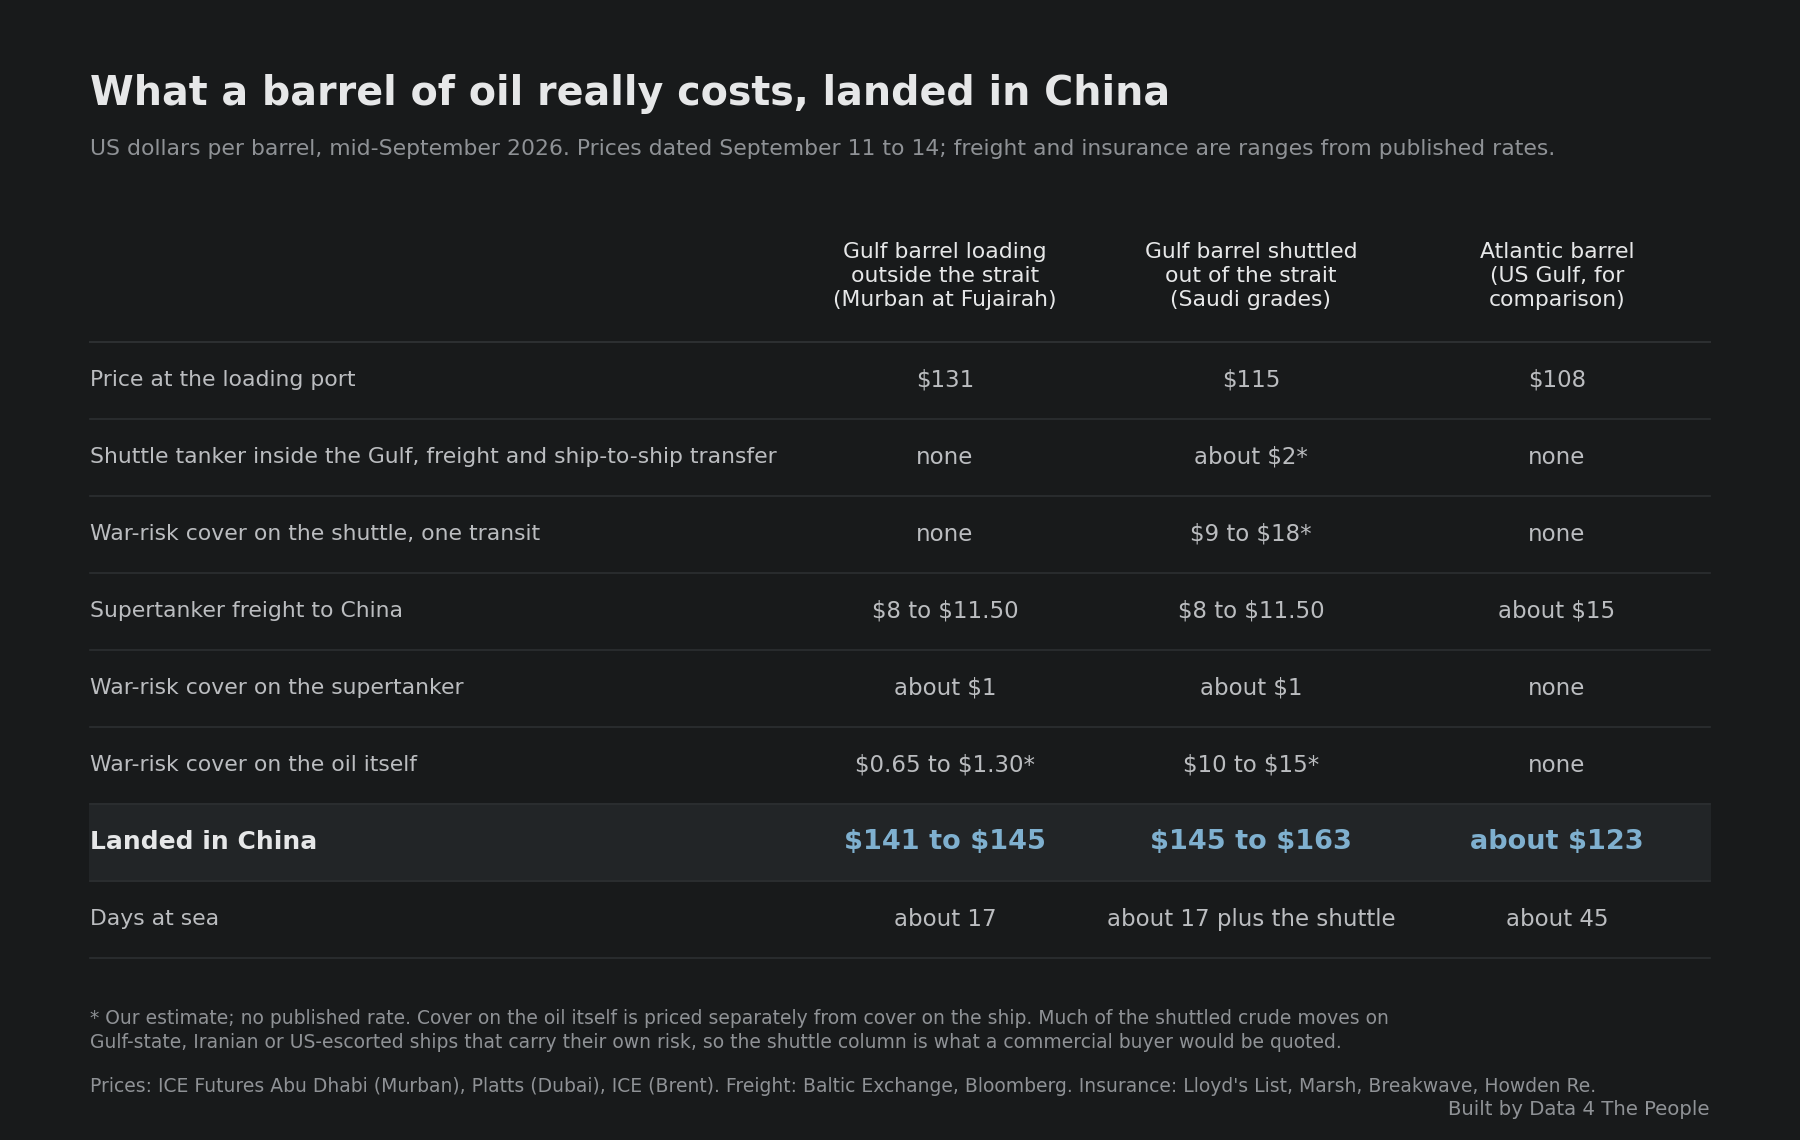
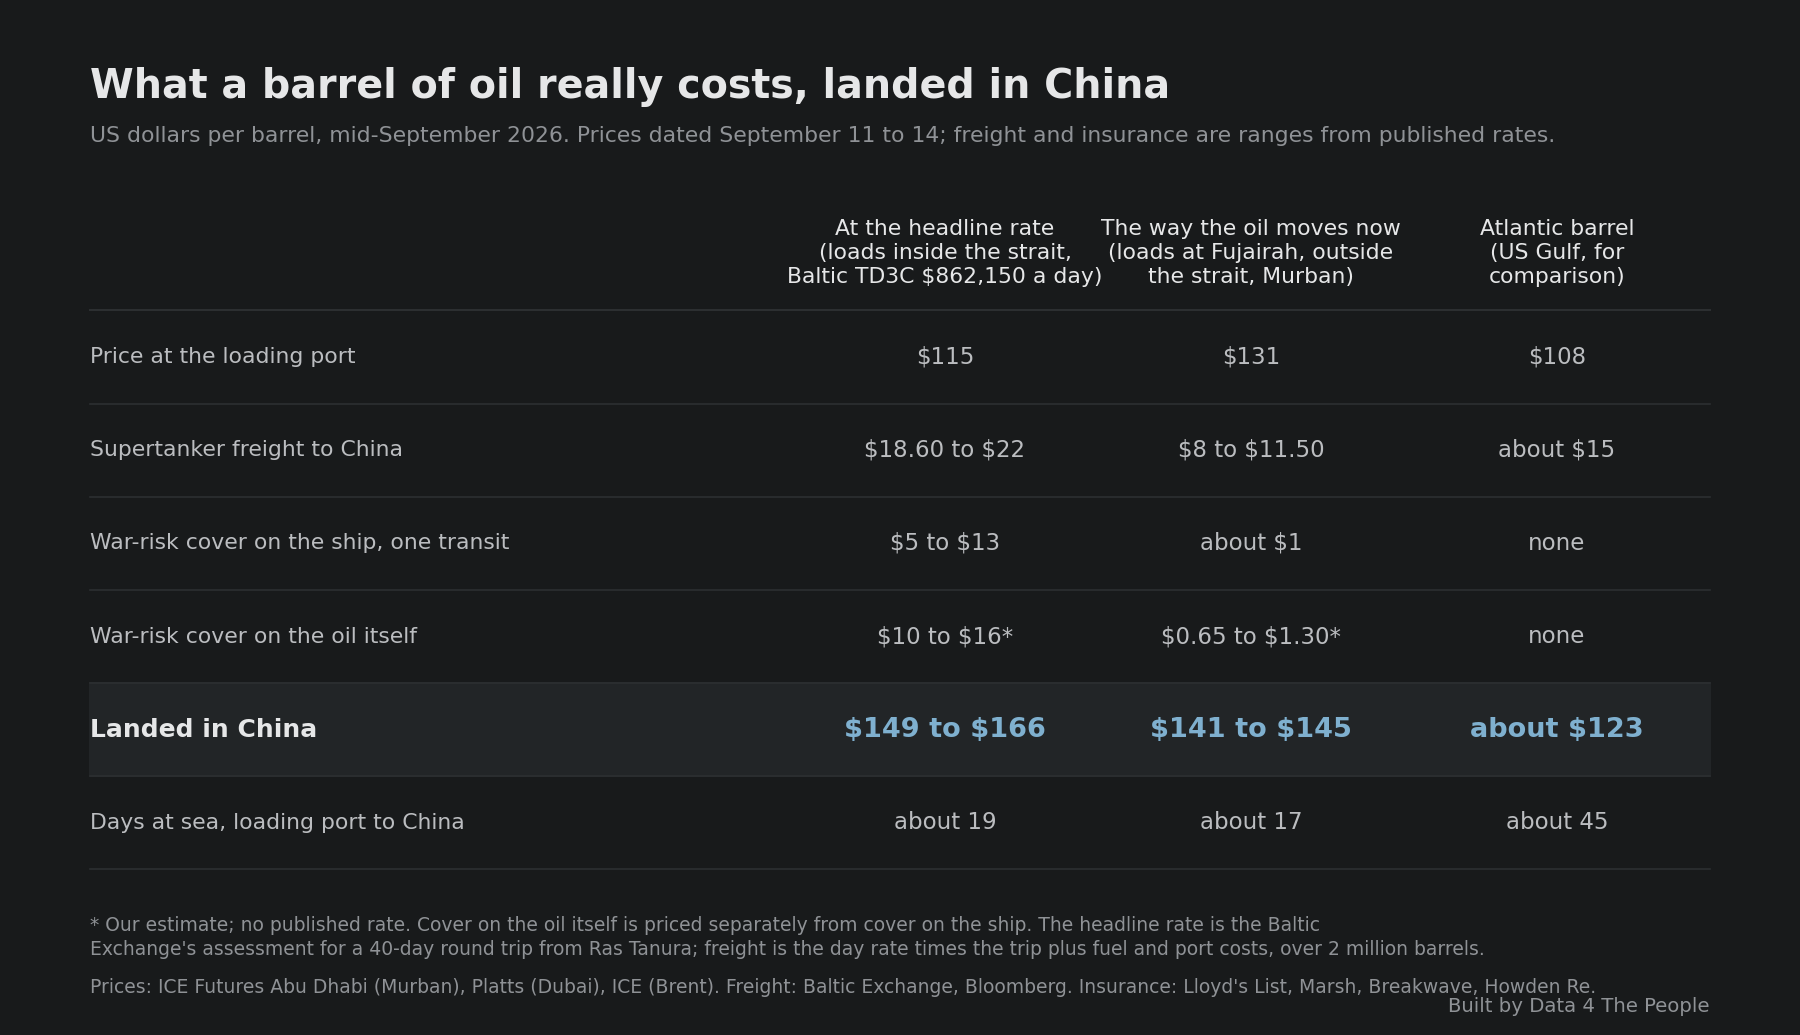
supertanker-rates: price the table off the headline TD3C rate
Claude-Session: https://claude.ai/code/session_01LBvAPhWemjubG9JqVWhAYE

diff --git a/scripts/landed_cost_table.py b/scripts/landed_cost_table.py
@@ -13,19 +13,17 @@ OUT = Path(__file__).resolve().parent.parent / "posts" / "supertanker-rates" / "
 BG, INK, MUTED, GRID, HEAD = "#181A1B", "#BBBDC0", "#8f9296", "#2c2f31", "#e6e7e8"
 ACCENT = "#7fb0cf"
 
-cols = ["", "Gulf barrel loading\noutside the strait\n(Murban at Fujairah)", "Gulf barrel shuttled\nout of the strait\n(Saudi grades)", "Atlantic barrel\n(US Gulf, for\ncomparison)"]
+cols = ["", "At the headline rate\n(loads inside the strait,\nBaltic TD3C $862,150 a day)", "The way the oil moves now\n(loads at Fujairah, outside\nthe strait, Murban)", "Atlantic barrel\n(US Gulf, for\ncomparison)"]
 rows = [
-    ("Price at the loading port", "$131", "$115", "$108"),
-    ("Shuttle tanker inside the Gulf, freight and ship-to-ship transfer", "none", "about $2*", "none"),
-    ("War-risk cover on the shuttle, one transit", "none", "$9 to $18*", "none"),
-    ("Supertanker freight to China", "$8 to $11.50", "$8 to $11.50", "about $15"),
-    ("War-risk cover on the supertanker", "about $1", "about $1", "none"),
-    ("War-risk cover on the oil itself", "$0.65 to $1.30*", "$10 to $15*", "none"),
-    ("Landed in China", "$141 to $145", "$145 to $163", "about $123"),
-    ("Days at sea", "about 17", "about 17 plus the shuttle", "about 45"),
+    ("Price at the loading port", "$115", "$131", "$108"),
+    ("Supertanker freight to China", "$18.60 to $22", "$8 to $11.50", "about $15"),
+    ("War-risk cover on the ship, one transit", "$5 to $13", "about $1", "none"),
+    ("War-risk cover on the oil itself", "$10 to $16*", "$0.65 to $1.30*", "none"),
+    ("Landed in China", "$149 to $166", "$141 to $145", "about $123"),
+    ("Days at sea, loading port to China", "about 19", "about 17", "about 45"),
 ]
 
-fig = plt.figure(figsize=(12, 7.6), dpi=150)
+fig = plt.figure(figsize=(12, 6.9), dpi=150)
 fig.patch.set_facecolor(BG)
 ax = fig.add_axes([0, 0, 1, 1]); ax.set_axis_off(); ax.set_xlim(0, 1); ax.set_ylim(0, 1)
 plt.rcParams["font.family"] = "sans-serif"
@@ -56,8 +54,8 @@ for r, (label, *vals) in enumerate(rows):
         fig.text(colx[i] + 0.075, y + row_h / 2, esc(v), fontsize=11 if not total else 13, color=ACCENT if total else INK,
                  fontweight="bold" if total else "normal", ha="center", va="center")
     ax.plot([x0, x1], [y, y], color=GRID, lw=0.8)
-fig.text(0.05, 0.115, "* Our estimate; no published rate. Cover on the oil itself is priced separately from cover on the ship. Much of the shuttled crude moves on\n"
-         "Gulf-state, Iranian or US-escorted ships that carry their own risk, so the shuttle column is what a commercial buyer would be quoted.",
+fig.text(0.05, 0.115, "* Our estimate; no published rate. Cover on the oil itself is priced separately from cover on the ship. The headline rate is the Baltic\n"
+         "Exchange's assessment for a 40-day round trip from Ras Tanura; freight is the day rate times the trip plus fuel and port costs, over 2 million barrels.",
          fontsize=9, color=MUTED, va="top", linespacing=1.35)
 fig.text(0.05, 0.055, "Prices: ICE Futures Abu Dhabi (Murban), Platts (Dubai), ICE (Brent). Freight: Baltic Exchange, Bloomberg. Insurance: Lloyd's List, Marsh, Breakwave, Howden Re.",
          fontsize=9, color=MUTED, va="top")

diff --git a/posts/supertanker-rates/POST.md b/posts/supertanker-rates/POST.md
@@ -44,16 +44,16 @@ Start with the barrel. The oil that can actually leave the Gulf right now loads 
 
 Now ship it. The Baltic Exchange rate for a supertanker from the Gulf of Oman to China worked out to about $11.50 a barrel on September 11, for a trip of about 17 days. (At the $862,150 headline rate, which is for a ship loading inside the strait on a 40-day round trip, fuel and port costs included, the same cargo would be $18 to $22 a barrel.) Add roughly $1 a barrel for war-risk insurance on the ship and about the same for insurance on the oil itself. That puts a Gulf barrel in a Chinese refinery at roughly $141 to $145.
 
-A barrel that starts inside the Gulf costs more. It first has to ride a smaller tanker out through the strait, and insuring that one leg can run $9 to $18 a barrel for the ship and as much again for the cargo, if anyone will write the policy. Our estimate is that a fully insured barrel shuttled out of the Gulf lands in China at $145 to $163. Much of that oil now moves on Gulf-state and Iranian ships, or under U.S. Navy escort, because commercial cover at those prices does not add up.
+A barrel that loads inside the Gulf, the trip the $862,150 rate is quoted for, costs more. At that rate the freight alone is $18.60 to $22 a barrel. War-risk cover for the transit adds $5 to $13 for the ship and, by our estimate, $10 to $16 for the cargo, if anyone will write the policy. That barrel lands in China at about $149 to $166. It is also why so little oil moves that way: most of what leaves the Gulf is carried to Fujairah on Gulf-state and Iranian ships, or under U.S. Navy escort, and loaded onto a supertanker there.
 
-So the honest answer to “what does oil cost” is that it depends on where you are standing. The screen says about $106. A refiner in China pays about $140 for the same barrel, and more if every step is insured at market rates. The $35 to $55 in between is the shipping story, and none of it shows up in the number on the screen.
+So the honest answer to “what does oil cost” is that it depends on where you are standing. The screen says about $106. A refiner in China pays about $140 for the same barrel, and up to $166 if it has to come out through the strait. The $35 to $60 in between is the shipping story, and none of it shows up in the number on the screen.
 
 Here is the whole bill in one place. The table shows what a barrel costs at the loading port, what it costs to ship and insure, and what it costs by the time it reaches a refinery in China.
 
-![Table titled What a barrel of oil really costs, landed in China, US dollars per barrel, mid-September 2026. Three columns: a Gulf barrel loading outside the strait at Fujairah, a Gulf barrel shuttled out of the strait, and an Atlantic barrel for comparison. Loading-port prices of $131, $115 and $108. Freight, shuttle and war-risk insurance lines are added. Landed in China: $141 to $145, $145 to $163, and about $123. Days at sea: about 17, about 17 plus the shuttle, and about 45.](images/02-landed-cost-table.png)
+![Table titled What a barrel of oil really costs, landed in China, US dollars per barrel, mid-September 2026. Three columns: a Gulf barrel priced at the headline Baltic rate of $862,150 a day loading inside the strait, a Gulf barrel loading at Fujairah outside the strait the way oil moves now, and an Atlantic barrel for comparison. Loading-port prices of $115, $131 and $108. Freight and war-risk insurance lines are added. Landed in China: $149 to $166, $141 to $145, and about $123. Days at sea: about 19, 17 and 45.](images/02-landed-cost-table.png)
 *Prices dated September 11 to 14, 2026. Lines marked with an asterisk are our estimates; no published rate exists for them.*
 
-Which brings me back to that headline. In June 2008, a few weeks before I started, Morgan Stanley told clients oil could reach $150 by the Fourth of July. It got to $147 and then fell about 80%. This past May, an Exxon executive warned that physical Brent cargoes would spike to $150 to $160 once inventories hit record lows. On the screen, that has not happened. Brent is about $106. But a Gulf barrel landed in China costs about $140 today, and up to $160 if every leg of the trip is insured. The forecast came true. It just came true at the refinery gate instead of on the screen, and the difference is the ship.
+Which brings me back to that headline. In June 2008, a few weeks before I started, Morgan Stanley told clients oil could reach $150 by the Fourth of July. It got to $147 and then fell about 80%. This past May, an Exxon executive warned that physical Brent cargoes would spike to $150 to $160 once inventories hit record lows. On the screen, that has not happened. Brent is about $106. But a Gulf barrel landed in China costs about $140 today, and up to $166 if it has to come out through the strait. The forecast came true. It just came true at the refinery gate instead of on the screen, and the difference is the ship.
 
 This analysis is just another example highlighting the difference between the way the world really works and how people think it works. The latter is almost always a very simplified version of the former. But the former is reality. It is how oil gets to refineries, through those refineries, and into our planes, trains, an automobiles. And when it is all said and done, this is what matters for the people.
 

diff --git a/research/NOTES.md b/research/NOTES.md
@@ -566,6 +566,18 @@ war-risk lines are estimates (no published rate; see k2).
 | **Landed in China** | **about $141 to $145** | **about $145 to $163** | **about $123** |
 | Days at sea | about 17 | about 17 plus the shuttle | about 45 (US Gulf to China via the Cape) |
 
+Priced straight off the headline rate instead (added Sep 14 after Eric asked
+why the $862,150 was not in the table): a Ras Tanura barrel at Dubai $115,
+freight $18.60 to $22 (the TD3C day rate times a 40-day round trip plus
+about $2 million of fuel and port costs, over 1.98 million barrels; or WS
+821 times the flat rate), hull war-risk for the transit $5 to $13, cargo
+cover at hull-like rates $10 to $16, lands at about $149 to $166. That is
+within a few dollars of the shuttle model above, which is reassuring: two
+ways of pricing the same barrel land in the same place. Possible overlap:
+the Baltic says its TD3C assessment already carries a risk premium for
+entering the strait, so the low end is the more likely figure. The post's
+table now uses this column in place of the shuttle column.
+
 Two cautions. The shuttle column is the most uncertain line in the notes:
 much of that crude moves on Gulf-state, Iranian or US-escorted ships that
 carry their own risk, so the insurance line is what a commercial charterer
